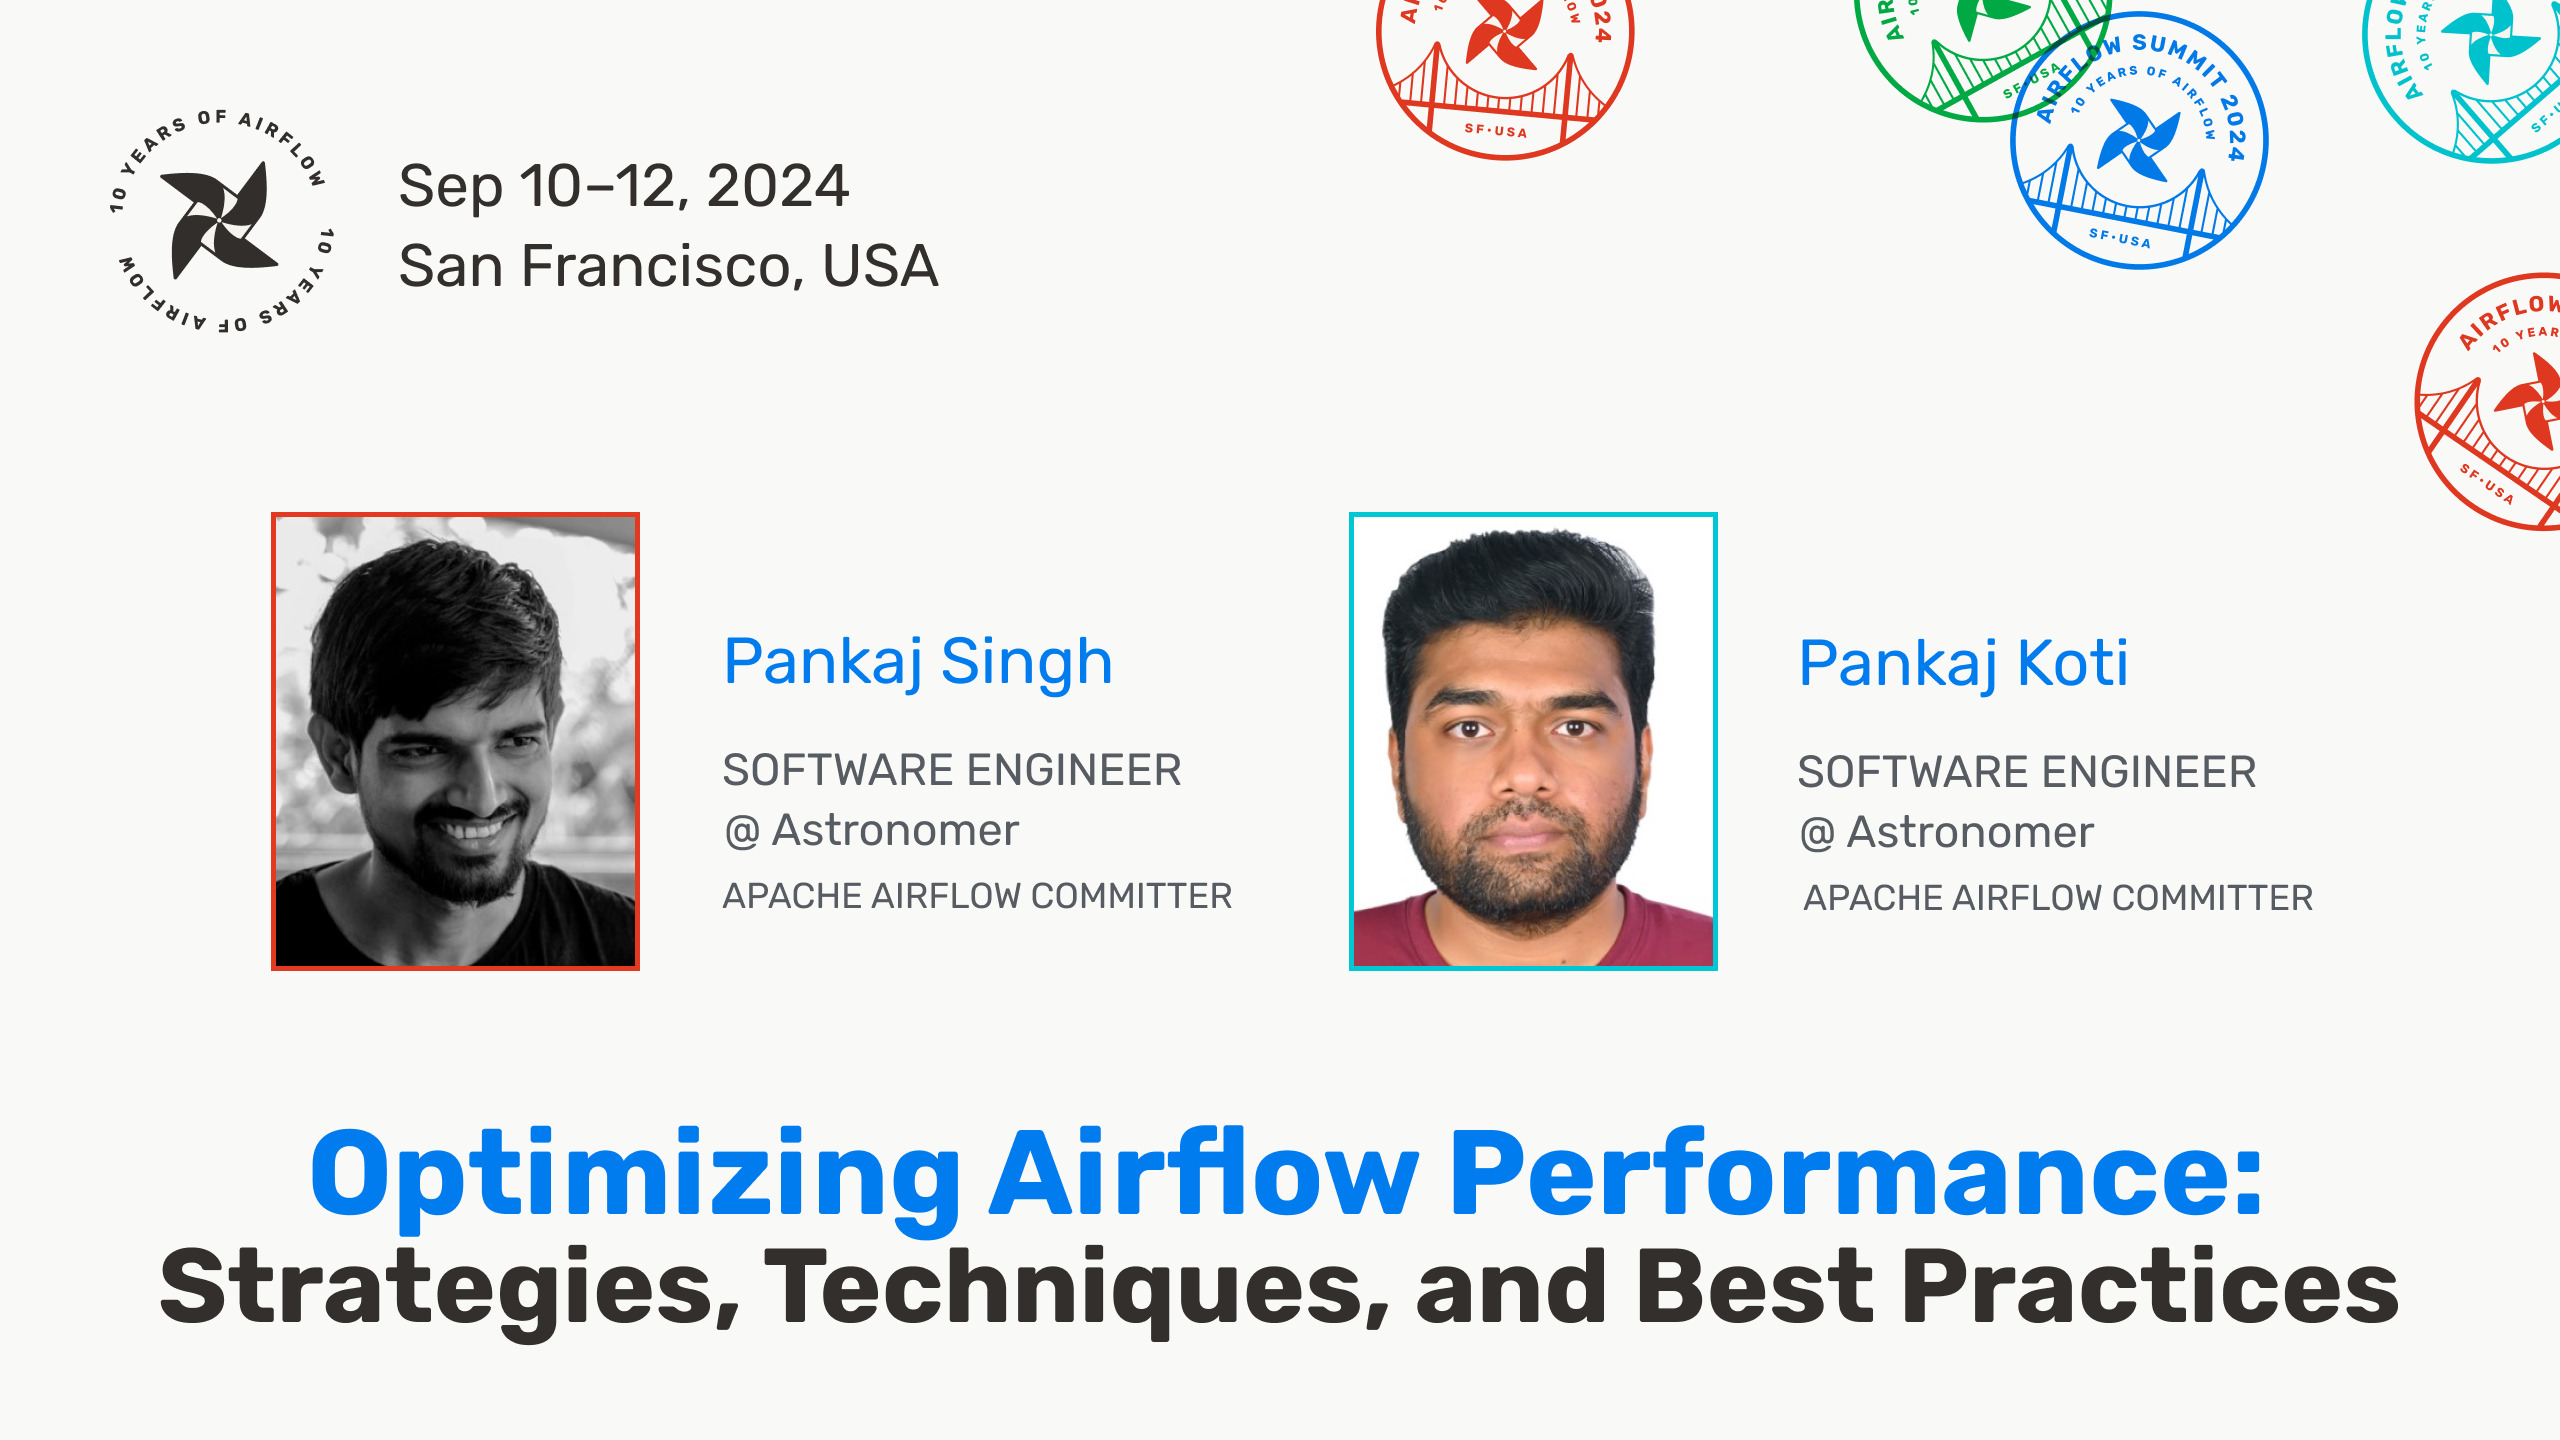
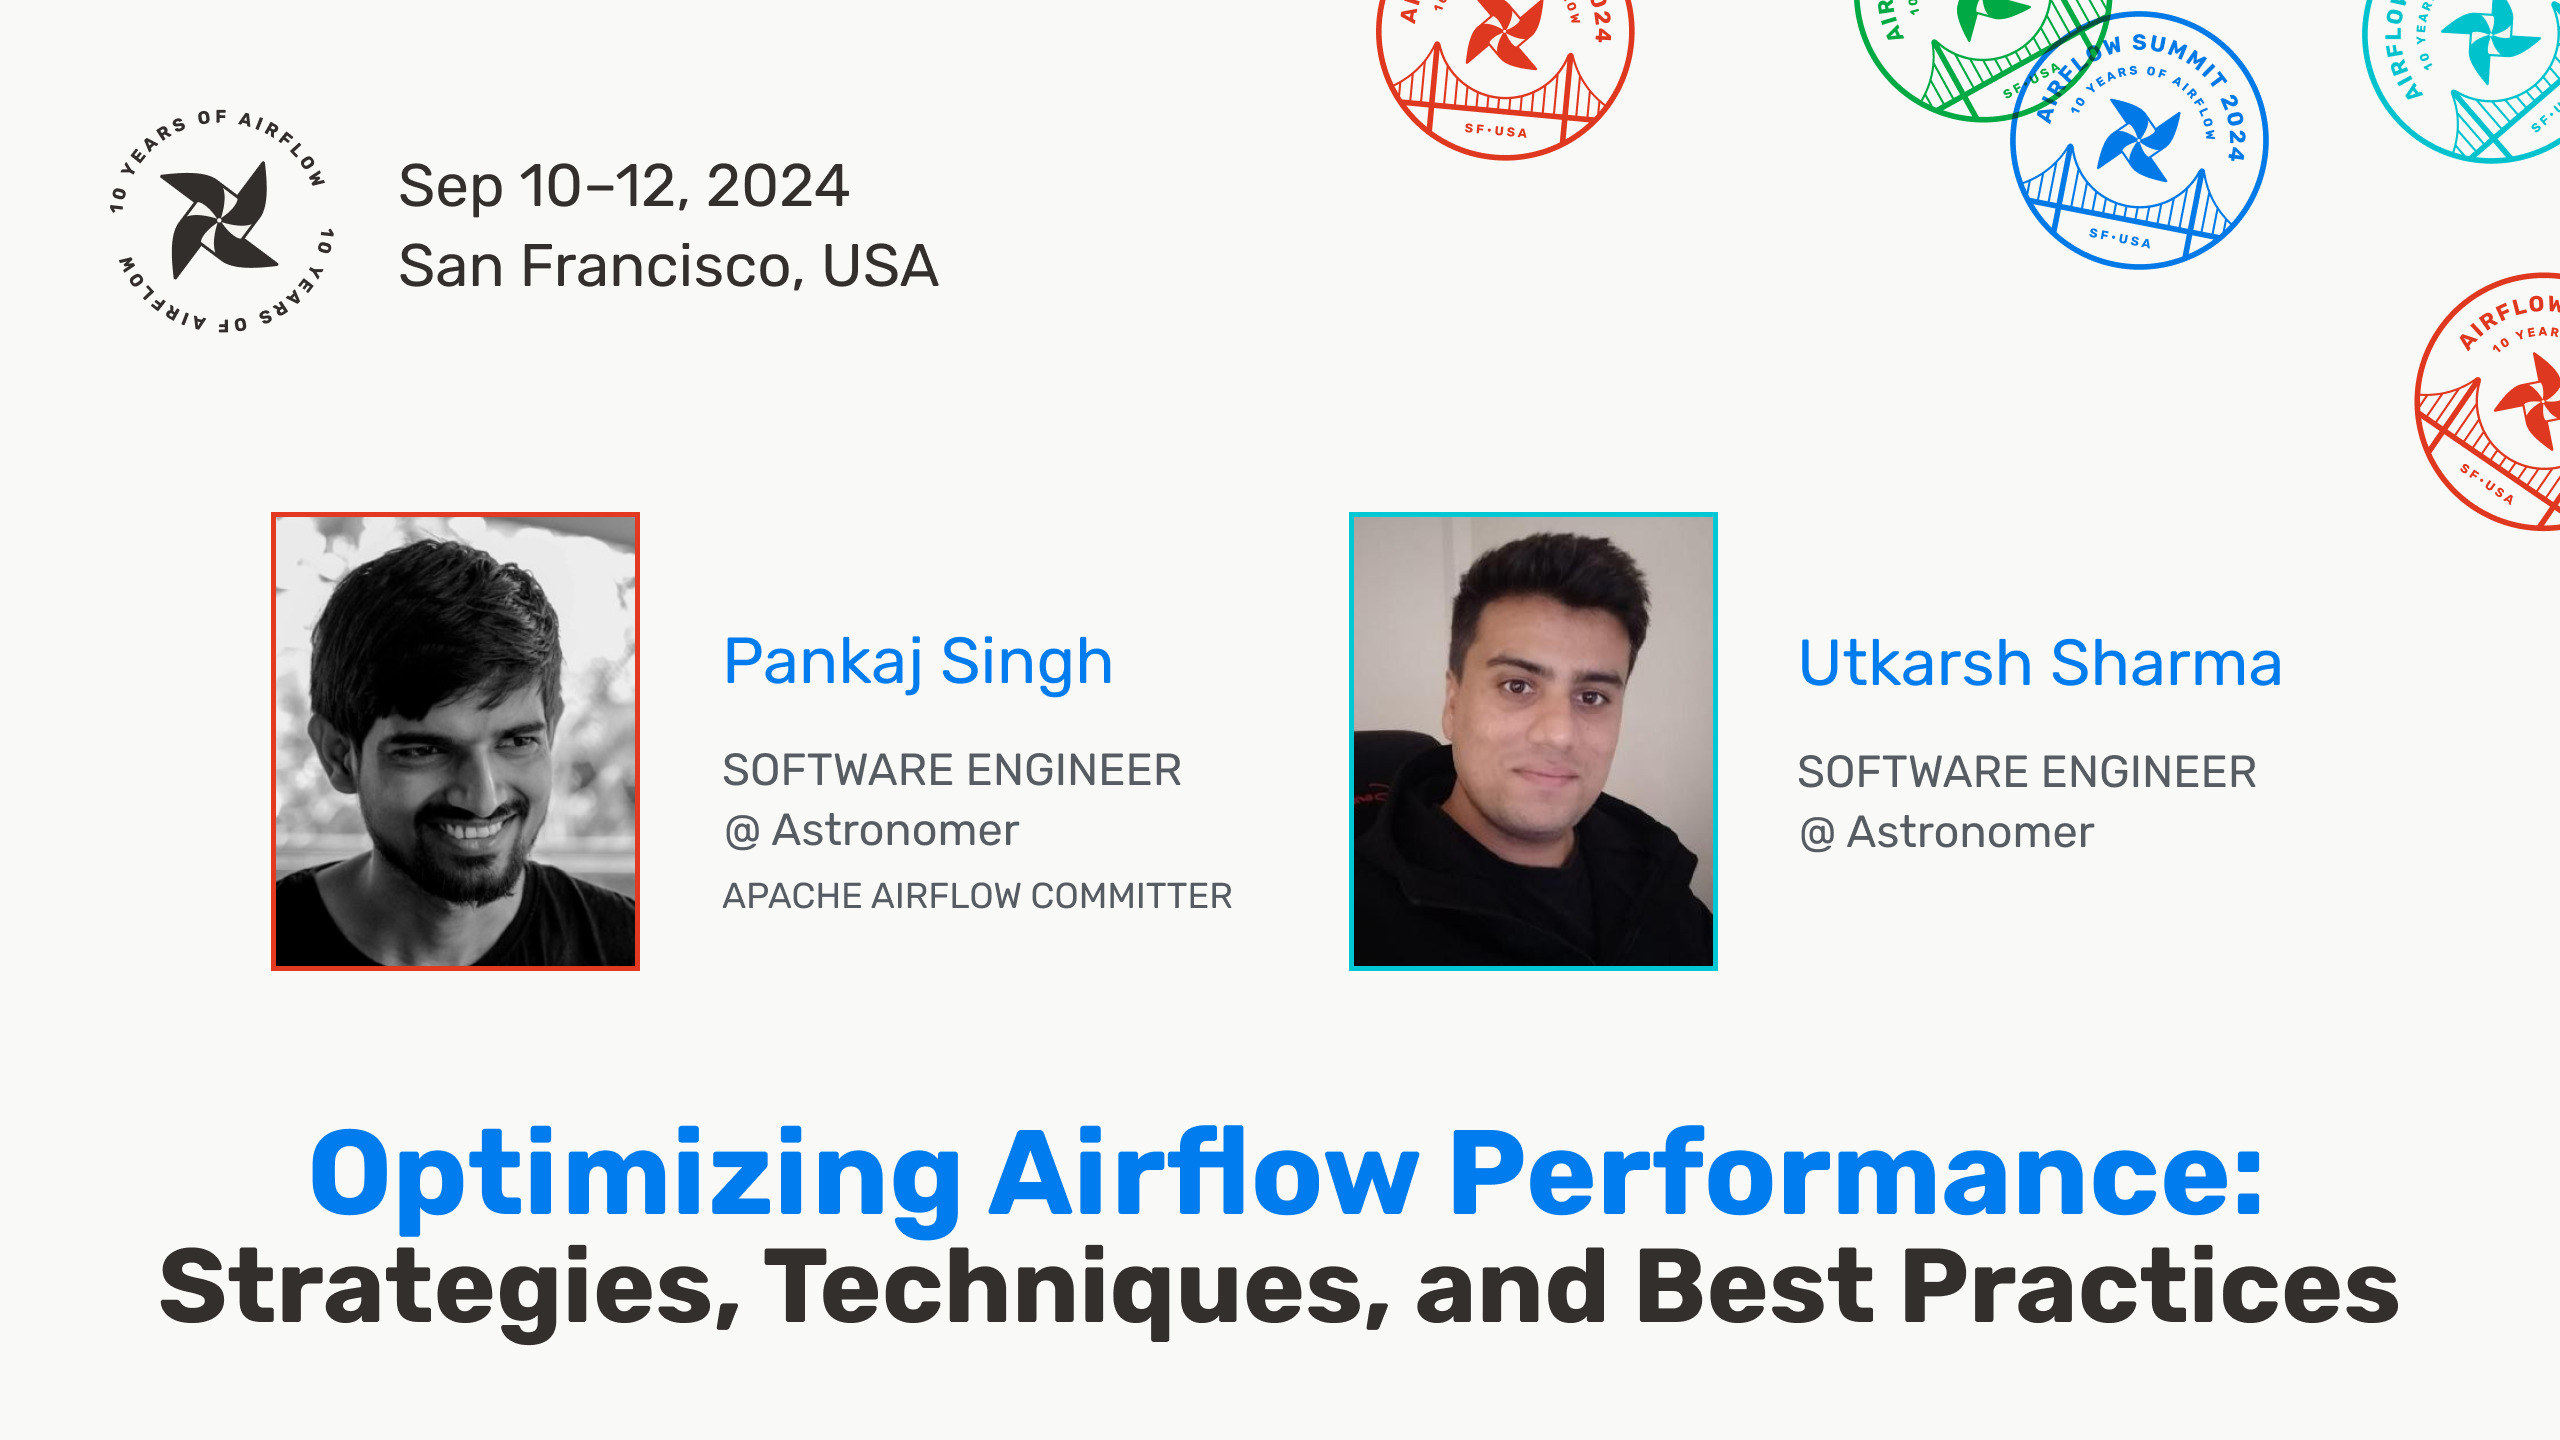
Add Utkarsh Sharma

Changed region(s): [[0.5312, 0.3438, 0.9062, 0.6875], [0.7188, 0.5938, 0.9062, 0.625]]

diff --git a/content/speakers/utkarsh-sharma/_index.md b/content/speakers/utkarsh-sharma/_index.md
@@ -1,24 +1,12 @@
 ---
 title: "Utkarsh Sharma"
-designation: "Astronomer, Senior Software Engineer"
+designation: "Sr Software Engineer at Astronomer"
 images:
  - /images/speakers/utkarsh-sharma.jpg
 twitter: 
 linkedin: https://www.linkedin.com/in/utkarsh-sharma-5791ab8a/
 events:
- - 2023
+ - 2024
 ---
 
-Utkarsh Sharma is a seasoned software engineer with over 9 years of experience working in different capacities. He has worked as a Frontend Engineer, and Python Engineer, and held other technical roles in renowned companies like Akamai, Paytm, and Astronomer.
-
-
-
-Utkarsh is an expert in building scalable and robust software solutions, especially in the areas of web development, data engineering, and machine learning. He has an excellent track record of designing and implementing complex software projects that have delivered business value.
-
-
-
-Currently working as a Sr. software engineer at Astronomer, Utkarsh is focused on building scalable and efficient software solutions. He is passionate about innovation and enjoys exploring new approaches to problem-solving.
-
-
-
-Utkarsh holds a Bachelor's degree in Computer Science Engineering. He is passionate about technology and loves to explore the latest trends and advancements in the field. In his free time, he enjoys reading books.
+Utkarsh Sharma, a Senior Software Engineer at Astronomer, brings 9+ years of diverse expertise from roles at Akamai, Paytm, and Astronomer. Proficient in web development, data engineering, and machine learning, he specializes in high-value project delivery. Utkarsh's focus on scalability and innovation aligns with his role at Astronomer's Open Source team. With a Bachelor's in Computer Science Engineering, he remains passionate about tech trends, often unwinding through book reading.

diff --git a/content/sessions/2024/optimizing-airflow-performance-strategies-techniques-and-best-practices.md b/content/sessions/2024/optimizing-airflow-performance-strategies-techniques-and-best-practices.md
@@ -3,7 +3,7 @@ title: "Optimizing Airflow Performance: Strategies, Techniques, and Best Practic
 slug: optimizing-airflow-performance-strategies-techniques-and-best-practices
 speakers:
  - Pankaj Singh
- - Pankaj Koti
+ - Utkarsh Sharma
 track:
  - Airflow & ...
 images:
